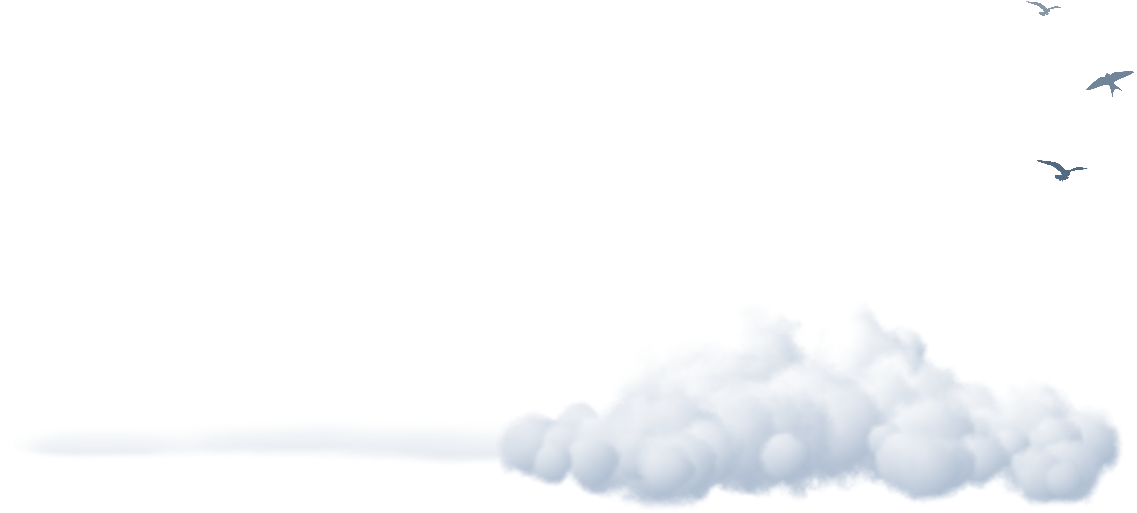
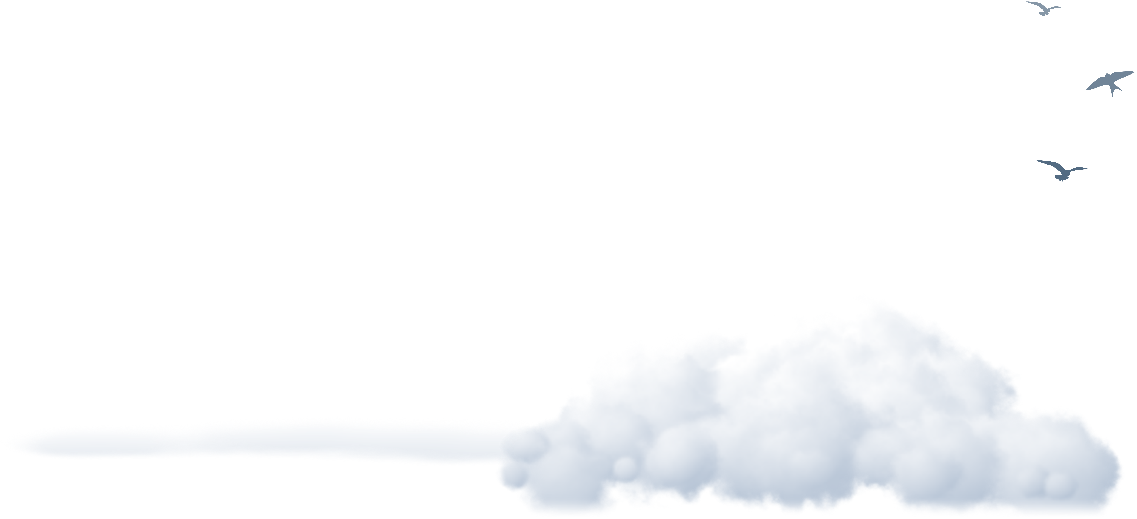
天空蓝主题窗口点缀的云更自然：云体先铺一层柔和打底填住云泡间的缝，云泡改为横向略扁、明暗过渡更软、边缘更毛，每朵云形状按种子随机生成且不对称；左上角改为一朵最大的积云作主角，沿上边、左边各接一串逐朵变小变淡、高低错开的积云；右上角的云大小不一，在框外上方、菜单栏右侧和右边框外交替散落

diff --git a/dstools/qt/ornaments.py b/dstools/qt/ornaments.py
@@ -76,19 +76,19 @@ _SPRITES: dict[str, tuple[Sprite, ...]] = {
         Sprite("sakura_spray_bottom.png", 1, 1, -180.5, -84.5, 185),
     ),
     "sky": (
-        # 排版脚本 sky/compose_sky.py，写实静谧的高空风格，云朵按体积生成。沿上边框向右是高低错落的薄雾
-        # 与两朵小积云，远处零星飞鸟、末端一段雁阵；沿左边框向下两朵小积云一高一低，几缕薄雾横着探出；
-        # 都停在外框线外侧
-        Sprite("sky_spray_right.png", 0, 0, 356, -27.5, 57),
-        Sprite("sky_spray_down.png", 0, 0, -50.5, 248.5, 299),
-        # 左上主角：几朵小积云紧凑地跨在拐角上，只压住标题栏图标、不挡标题文字和菜单，背后透出柔和日光，
+        # 排版脚本 sky/compose_sky.py，写实静谧的高空风格，云朵按体积生成、形状各不相同。从左上角沿上边框
+        # 向右、沿左边框向下各一串积云，一朵比一朵小、越来越淡，高低错开，间几缕薄雾、零星飞鸟，上边末端
+        # 一段雁阵；都停在外框线外侧
+        Sprite("sky_spray_right.png", 0, 0, 339.5, -27, 56),
+        Sprite("sky_spray_down.png", 0, 0, -46.5, 228.5, 353),
+        # 左上主角：一朵最大的积云跨在拐角上，只压住标题栏图标、不挡标题文字和菜单，背后透出柔和日光，
         # 一缕薄雾横过拐角，几只海鸥飞过
-        Sprite("sky_cluster.png", 0, 0, 16, -16.5, 107),
-        # 右上呼应：小风筝停在拐角外框线上方，风筝线沿上边往左淡去；菜单栏右侧空着的那一条里融进几朵
-        # 小积云和薄雾；都不挡标题栏按钮
-        Sprite("sky_spray_corner.png", 1, 0, -166, 15.5, 93),
+        Sprite("sky_cluster.png", 0, 0, 3.5, -37, 106),
+        # 右上呼应：小风筝停在拐角外框线上方，风筝线沿上边往左淡去；大小不一的积云在框外上方、菜单栏右侧
+        # 空白和右边框外交替散落；都不挡标题栏按钮
+        Sprite("sky_spray_corner.png", 1, 0, -155.5, 17, 102),
         # 右下角：一道低矮的积云带压在拐角，往左延一条薄层云，几只鸟沿右边框外侧往上飞；左下角留白
-        Sprite("sky_bottom.png", 1, 1, -140.5, -67.5, 171),
+        Sprite("sky_bottom.png", 1, 1, -140.5, -66.5, 173),
     ),
     "twilight": (
         # 星夜蓝，排版脚本 twilight/compose_twilight.py。沿上边框向右、沿左边框向下各一道银河光带，
